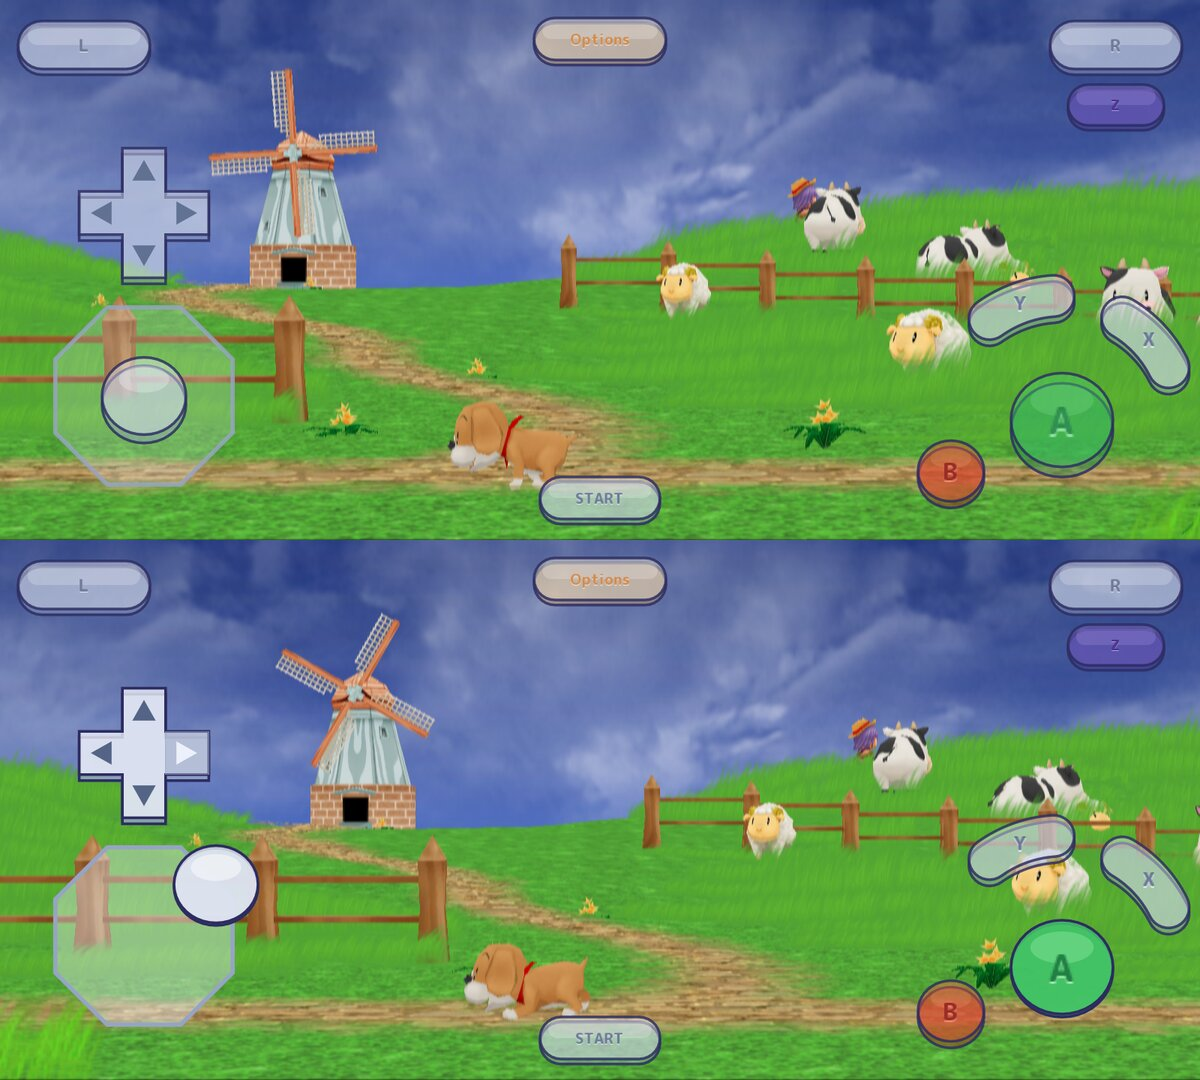
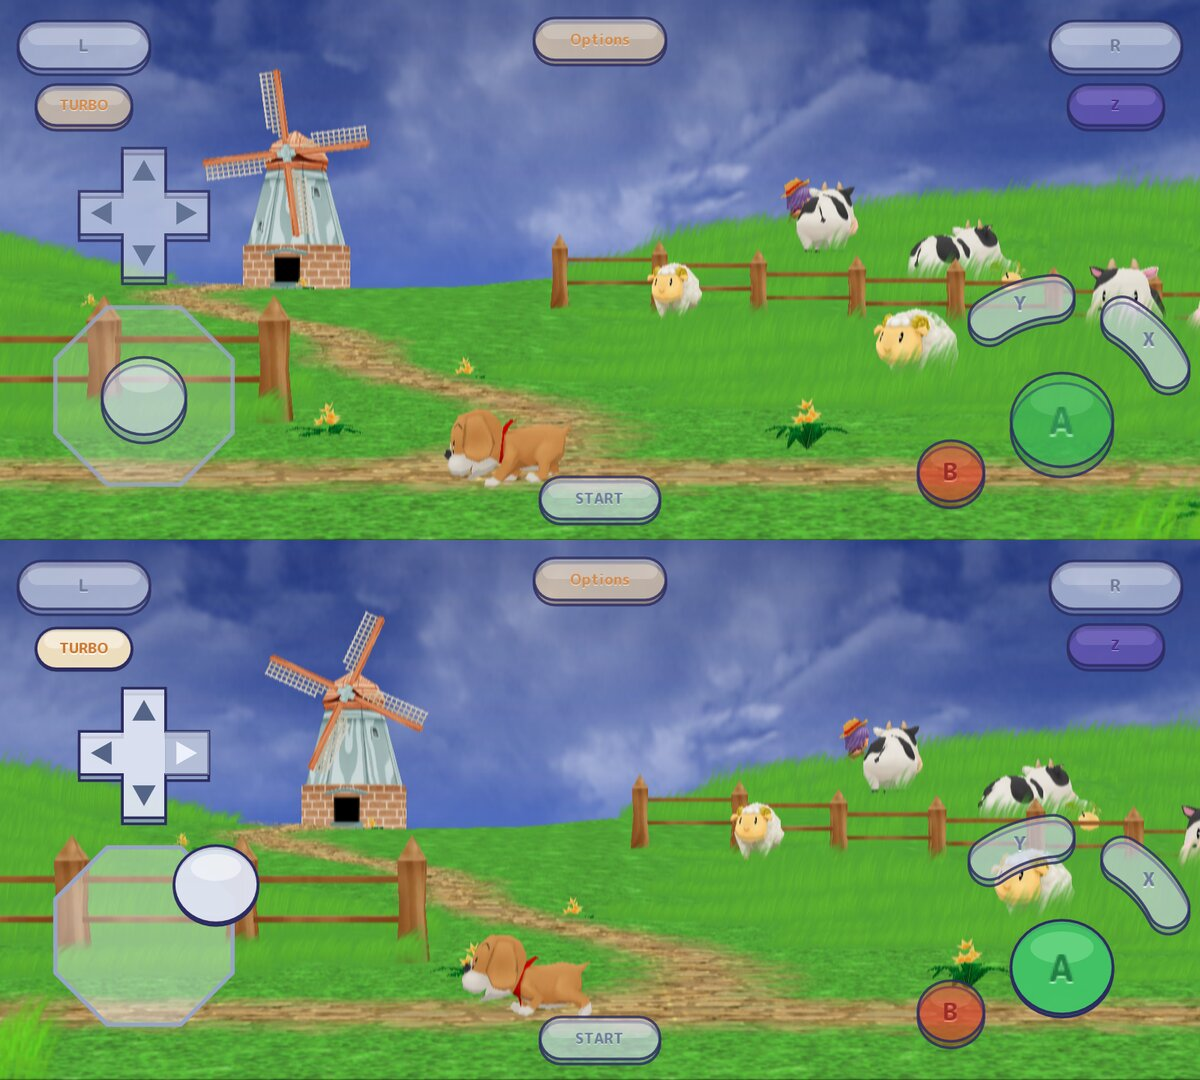
Add a TURBO touch button
Under L, as Z is under R, a cream TURBO button runs the game at the turbo's speed while a finger
holds it, as the turbo's key (Tab) or its gamepad button does. Buttons now say what they do (press
the controller's buttons, open the menu, or the turbo) instead of the menu being the one without
controller buttons.

diff --git a/runtime/src/input/touch_buttons.cpp b/runtime/src/input/touch_buttons.cpp
@@ -46,15 +46,17 @@ constexpr Sint16 STICK_MOVED = 12000;
 //   Bean                X and Y, pale beans curved around A;
 //   GrayCapsule         L, R and START, pale capsules (a rectangle with round ends);
 //   PurpleCapsule       Z;
-//   CreamCapsule        the menu's, which the GameCube does not have, in the cream of the game's boxes;
+//   CreamCapsule        the menu's and the turbo's, which the GameCube does not have, in the cream of
+//                       the game's boxes;
 //   Pad                 an arm of the D-Pad, a pale cross drawn once for the four.
 enum class Look { GreenCoin, RedCoin, Bean, GrayCapsule, PurpleCapsule, CreamCapsule, Pad };
 
 // The D-Pad's arrows are drawn, not written: the game's lettering has no arrows.
 enum class Arrow { None, Up, Down, Left, Right };
 
-// What a button does: press the controller's buttons, or open the options menu (as F10 does).
-enum class Job { Pad, Menu };
+// What a button does: press the controller's buttons, open the options menu (as F10 does), or
+// run the game faster while it is held (as the turbo's key, Tab, does).
+enum class Job { Pad, Menu, Turbo };
 
 struct Button {
     const char* label;  // nullptr: from the texts (the menu's)
@@ -68,7 +70,7 @@ struct Button {
     Arrow arrow = Arrow::None;
 };
 
-const std::array<Button, 13> BUTTONS = {{
+const std::array<Button, 14> BUTTONS = {{
     {"A", Job::Pad, PAD_BUTTON_A, Look::GreenCoin, -2.3f, -2.0f, 1.7f, 1.7f},
     {"B", Job::Pad, PAD_BUTTON_B, Look::RedCoin, -4.15f, -1.15f, 1.1f, 1.1f},
     {"X", Job::Pad, PAD_BUTTON_X, Look::Bean, -0.85f, -3.35f, 1.15f, 1.15f},
@@ -78,6 +80,7 @@ const std::array<Button, 13> BUTTONS = {{
     {"Z", Job::Pad, PAD_TRIGGER_Z, Look::PurpleCapsule, -1.4f, 1.75f, 1.6f, 0.68f},
     {"START", Job::Pad, PAD_BUTTON_START, Look::GrayCapsule, 0.f, -0.7f, 2.0f, 0.7f, true},
     {nullptr, Job::Menu, 0, Look::CreamCapsule, 0.f, 0.65f, 2.2f, 0.7f, true},
+    {"TURBO", Job::Turbo, 0, Look::CreamCapsule, 1.4f, 1.75f, 1.6f, 0.68f},  // under L, as Z is under R
     {"", Job::Pad, PAD_BUTTON_UP, Look::Pad, 2.4f, -6.15f, 0.75f, 0.75f, false, Arrow::Up},
     {"", Job::Pad, PAD_BUTTON_DOWN, Look::Pad, 2.4f, -4.75f, 0.75f, 0.75f, false, Arrow::Down},
     {"", Job::Pad, PAD_BUTTON_LEFT, Look::Pad, 1.7f, -5.45f, 0.75f, 0.75f, false, Arrow::Left},
@@ -516,6 +519,18 @@ void draw() {
             draw_button(draw, BUTTONS[index], held(index));
         }
     }
+}
+
+bool turbo_held() {
+    if (!visible()) {
+        return false;
+    }
+    for (int index = 0; index < static_cast<int>(BUTTONS.size()); ++index) {
+        if (BUTTONS[index].job == Job::Turbo && held(index)) {
+            return true;
+        }
+    }
+    return false;
 }
 
 void add_to(PADStatus& status) {

diff --git a/runtime/src/input/touch_buttons.h b/runtime/src/input/touch_buttons.h
@@ -11,7 +11,8 @@
 // On the left, the Control Stick (the finger moves its knob, as far as its ring) and the D-Pad; on
 // the right, A (the big green one), B, X and Y where the GameCube has them; L and R at the top
 // corners with Z under R; START at the bottom in the middle, and at the top in the middle a button
-// that opens the options menu (in_game_menu.h), as F10 does. Several fingers press several buttons
+// that opens the options menu (in_game_menu.h), as F10 does; under L, TURBO runs the game faster
+// while it is held, as the turbo's key (Tab) does. Several fingers press several buttons
 // at once, and a finger that slides from one button onto another moves to it.
 //
 // They show when the screen is touched (and from the start on Android, unless a controller is
@@ -36,6 +37,9 @@ bool visible();
 
 // Inside each frame of the game, before it ends (aurora_host.cpp).
 void draw();
+
+// Whether a finger holds TURBO (aurora_host.cpp then runs the game faster, see game_clock.h).
+bool turbo_held();
 
 // What the fingers press, added to what controller 1 reads (input/pad_natives.cpp).
 void add_to(PADStatus& status);

diff --git a/runtime/src/graphics/aurora_host.cpp b/runtime/src/graphics/aurora_host.cpp
@@ -213,9 +213,9 @@ void present_frame() {
     shadow_range::update();
     ground_mesh::follow_zoom(camera_view::zoom());
     // The turbo: the whole game runs at game_clock::TURBO_SPEED_PERCENT while its key (Tab, or
-    // the one chosen in the controls) or its gamepad button is held; not while the options menu is
-    // open, where Tab moves between its controls.
-    game_clock::set_turbo(!in_game_menu::is_open() && controls_editor::turbo_held());
+    // the one chosen in the controls), its gamepad button or the touch button TURBO is held; not
+    // while the options menu is open, where Tab moves between its controls.
+    game_clock::set_turbo(!in_game_menu::is_open() && (controls_editor::turbo_held() || touch_buttons::turbo_held()));
     // The menu's shortcut on the controller and its lettering for the window's size, before the
     // next frame starts (and with it ImGui's).
     in_game_menu::before_frame();

diff --git a/docs/NATIVE_RUNTIME.md b/docs/NATIVE_RUNTIME.md
@@ -269,7 +269,9 @@ jugador; el paquete público compilará esa parte en la PC de cada jugador.
 **Qué.** Un control de GameCube dibujado sobre el juego para un celular o una
 tablet (`input/touch_buttons.cpp`): el stick y la cruceta a la izquierda; A
 (grande y verde), B, X y Y a la derecha donde los tiene la GameCube; L, R y Z
-arriba; START abajo; y arriba en medio un botón que abre las opciones, como F10.
+arriba; START abajo; arriba en medio un botón que abre las opciones, como F10;
+y bajo L, TURBO, que mientras se aprieta acelera el juego como la tecla del
+turbo (Tab).
 Juegan como el control 1, junto con lo demás que juegue ahí: se suman a lo que
 lee `PADRead`. Varios dedos aprietan varios botones, y un dedo que se desliza
 pasa de un botón al siguiente.
@@ -278,8 +280,8 @@ Se dibujan como el juego dibuja los botones del control en su pantalla (en la
 granja, A, B y X arriba a la derecha): A y B son monedas, X y Y frijoles
 curvados alrededor de A, todos con un borde azul oscuro y la letra hundida.
 Llevan los colores del control de GameCube (A verde, B roja, Z morada; X, Y, L,
-R, START, el stick y la cruceta claros), y el de las opciones, que la GameCube
-no tiene, va en crema. Son semitransparentes (el relleno al 42 %, al 80 %
+R, START, el stick y la cruceta claros), y los de las opciones y el turbo, que la
+GameCube no tiene, van en crema. Son semitransparentes (el relleno al 42 %, al 80 %
 cuando se aprietan; las letras y los bordes más fuertes), para que el juego se
 vea debajo también en pantalla ancha, donde el juego llega hasta los bordes.
 
@@ -296,7 +298,7 @@ pantalla, y tocarla no hace nada. Si el control se desconecta, vuelven, para no
 quedarse sin forma de jugar. Se probó cómo se ven, en el juego en Linux; tocarlos
 solo se puede probar en una pantalla táctil.
 
-![Los botones táctiles sobre el juego en pantalla ancha, sueltos y con A, el stick y la flecha derecha apretados](images/touch-buttons.jpg)
+![Los botones táctiles sobre el juego en pantalla ancha, sueltos y con A, el stick, la flecha derecha y TURBO apretados](images/touch-buttons.jpg)
 
 ### Qué sigue
 
@@ -570,8 +572,9 @@ player; the public package will compile that part on each player's PC.
 **What.** A GameCube controller drawn over the game for a phone or a tablet
 (`input/touch_buttons.cpp`): the stick and the D-Pad on the left; A (big and green),
 B, X and Y on the right where the GameCube has them; L, R and Z at the top;
-START at the bottom; and at the top in the middle a button that opens the
-options, as F10 does. They play as controller 1, together with whatever else
+START at the bottom; at the top in the middle a button that opens the options,
+as F10 does; and under L, TURBO, which while held runs the game faster as the
+turbo's key (Tab) does. They play as controller 1, together with whatever else
 plays there: they are added to what `PADRead` reads. Several fingers press
 several buttons, and a finger that slides goes from one button to the next.
 
@@ -579,8 +582,8 @@ They are drawn as the game draws the controller's buttons on its own screen
 (on the farm, A, B and X at the top right): A and B are coins, X and Y beans
 curved around A, all with a dark blue edge and the letter pressed in. They have
 the GameCube controller's colors (A green, B red, Z purple; X, Y, L, R, START,
-the stick and the D-Pad pale), and the options' button, which the GameCube does
-not have, is cream. They are see-through (the faces at 42 %, 80 % while pressed;
+the stick and the D-Pad pale), and the options' and turbo's buttons, which the GameCube
+does not have, are cream. They are see-through (the faces at 42 %, 80 % while pressed;
 the letters and the edges stronger), so that the game shows under them also on
 a wide screen, where the game reaches the edges.
 
@@ -598,7 +601,7 @@ controller is disconnected they come back, so that the game can still be played.
 How they look was tried in the game on Linux; touching them can only be tried
 on a touch screen.
 
-![The touch buttons over the game on a wide screen, at rest and with A, the stick and the right arrow pressed](images/touch-buttons.jpg)
+![The touch buttons over the game on a wide screen, at rest and with A, the stick, the right arrow and TURBO pressed](images/touch-buttons.jpg)
 
 ### What comes next
 
